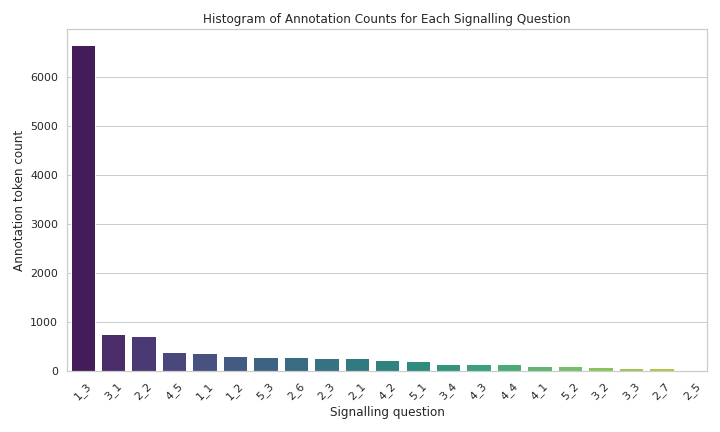
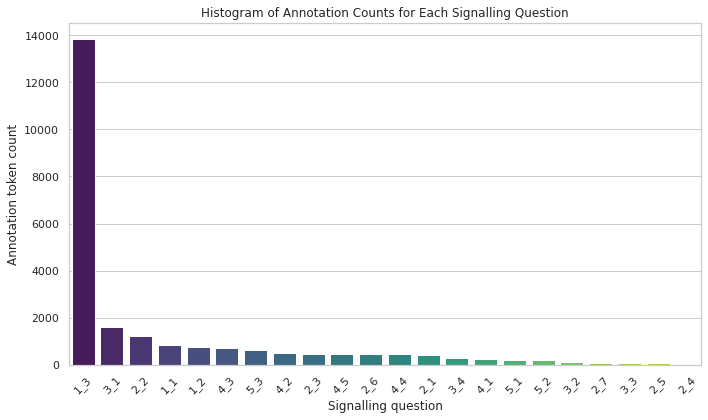
discussion - The Corpus improved

Changed region(s): [[0.0, 0.0, 0.9944, 0.9905], [0.9633, 0.4952, 0.9944, 0.5571], [0.9633, 0.1548, 0.9944, 0.2167]]

diff --git a/sn-article.tex b/sn-article.tex
@@ -465,7 +465,8 @@ The conflict resolution was followed by (singly) annotating 31 additional RCTs.
 After the annotation of 9 doubly-annotated RCTs, we had to stop using tagtog for certain reasons and switched to the PAWLS~\footnote{\url{https://pawls.apps.allenai.org/}} annotation tool, which allows users to annotate PDFs for free~\cite{neumann2021pawls}.
 We chose to annotate PDFs rather than plain text because RCT PDFs have a visual format that will be lost upon converting to text. 
 For example the structure pertaining to sections and subsections, tables, and figures makes the annotation task quicker for the annotators and increases annotation quality.
-Post annotation, a feedback was taken from all the annotators and the experts involved in formulating the visual placards to gauge the general difficulty, subjectivity and availability of information for bias assessment of each signalling question.
+Post annotation, a feedback was taken from all the annotators and the experts involved in formulating the visual placards to gauge the 1) general difficulty, 2) subjectivity and 3) availability of information for bias assessment of each signalling question.
+These factors were assessed on the scale of 1-5 with 1 being best and 5 being the worst.
 The forms and the responses could be found in the Supplementary material 2. %TODO Anjani: Prepare the supplementary material 
 %
 %
@@ -557,7 +558,7 @@ The histogram in Figure \ref{fig:ann_counts} shows a visual representation of th
 SQ 1.3 has disproportionately higher number of annotated tokens, while for all other SQs, the number of annotated tokens remains consistently below 2000 across the entire corpus.
 
  
-There are no token annotations for the bias question 2.4 ``Were these deviations likely to have affected the outcome?'' which hinges on the previous question 2.3.
+There are least number of token annotations for the bias question 2.4 ``Were these deviations likely to have affected the outcome?'' which hinges on the previous question 2.3.
 Table~\ref{table:stats} lists down essential information on the absolute and average annotation lengths for each RoB SQ along with the total number of documents the annotations are identified from.
 Annotations from risk domain one (randomization process) are found in almost all the documents, while information related to answering the other risk questions is only available in a small subset of the total annotated RCTs, as also depicted in Figure~\ref{fig:rob_information}.
 The figure highlights that, for most of the RoB questions, there was no information available (represented by the yellow bars) for both answering the question and making a judgment about whether the bias was high or low.
@@ -855,13 +856,15 @@ The agreement considerably drops for the risk domain ``deviations from intended 
 %
 % Why do some RoB questions have more annotations compared to the other? Does it mean papers have more information on certain aspects compared to the other questions?
 %How did the annotators perceive the difficulty of each signalling question? -> Make a scale
-%TODO:  Have sent the forms to all the annotators. After their input formulate this portion.
 The immediate point we noticed is that SQ 1.3 has disproportionately higher number of annotated tokens because it involved annotating full tables for coming to a bias judgement.
-The number of tokens annotated for the other signalling questions remain under 1000 tokens.
-The reason for varying number of tokens annotated for each SQ could be because some questions are objective vs others subjective.
+In contrast, the remaining signal questions had fewer than 900 tokens each annotated.
 Availability of detailed description on the study design, methods and results can impact the amount of tokens annotated along with the ease of bias assessment.
 The more information a study provided, the easier it is to evaluate a bias question.
 Some studies tend to not report key details making it tougher to assess certain bias questions.
+In feedback received, it is worth noting that for all the signal questions with fewer than 100 annotated tokens, both annotators consistently rated the availability of information to answer those questions as either ``low" or ``very low."
+In contrast, for the top five signal questions shown in Figure~\ref{fig:ann_counts}, both annotators consistently rated the availability of information as ``high", ``very high" (except once as ``normal"). 
+However, take this qualitative feedback with a grain of salt because the annotator feedback depends on the number and kind of RCTs they annotated.
+The annotator who annotated more documents tended to rate the availability of information on the lower ends while the annotator who annotated less documents was lenient.
 %
 %
 %
@@ -981,7 +984,7 @@ In contrast, to answer SQ 5.2, LLM indirectly answered the following, ``Regardin
 Coming to the results of LLM evaluation, for the first risk domain SQ 1.3, we saw a comparatively lower agreement between ChatGPT and the experts because the answer to this SQ is typically found in the table text of RCT.
 Text in tables is read by ChatPDF, but it might have problems correlating the correct rows and columns leading to a distorted understanding of the tables.
 This could be the reason why ChatPDF sought to answer this question typically using RCT text rather than the table text.
-For instance, for Stuck et al RCT, both the expert and LLM answered SQ 1.3 with ``No Good'', but expert used Table 2 as the evidence to answer the question while LLM used the text evidence not found in the table.
+For instance, for~\cite{stuck2015effect} RCT, both the expert and LLM answered SQ 1.3 with ``No Good'', but expert used Table 2 as the evidence to answer the question while LLM used the text evidence not found in the table.
 
 \begin{quote}
     LLM answer: No, there were no significant differences (p < 0.05; based on z-statistics from generalized estimating equation models) between the intervention and control groups in any of the baseline characteristics listed in Table 2 .
